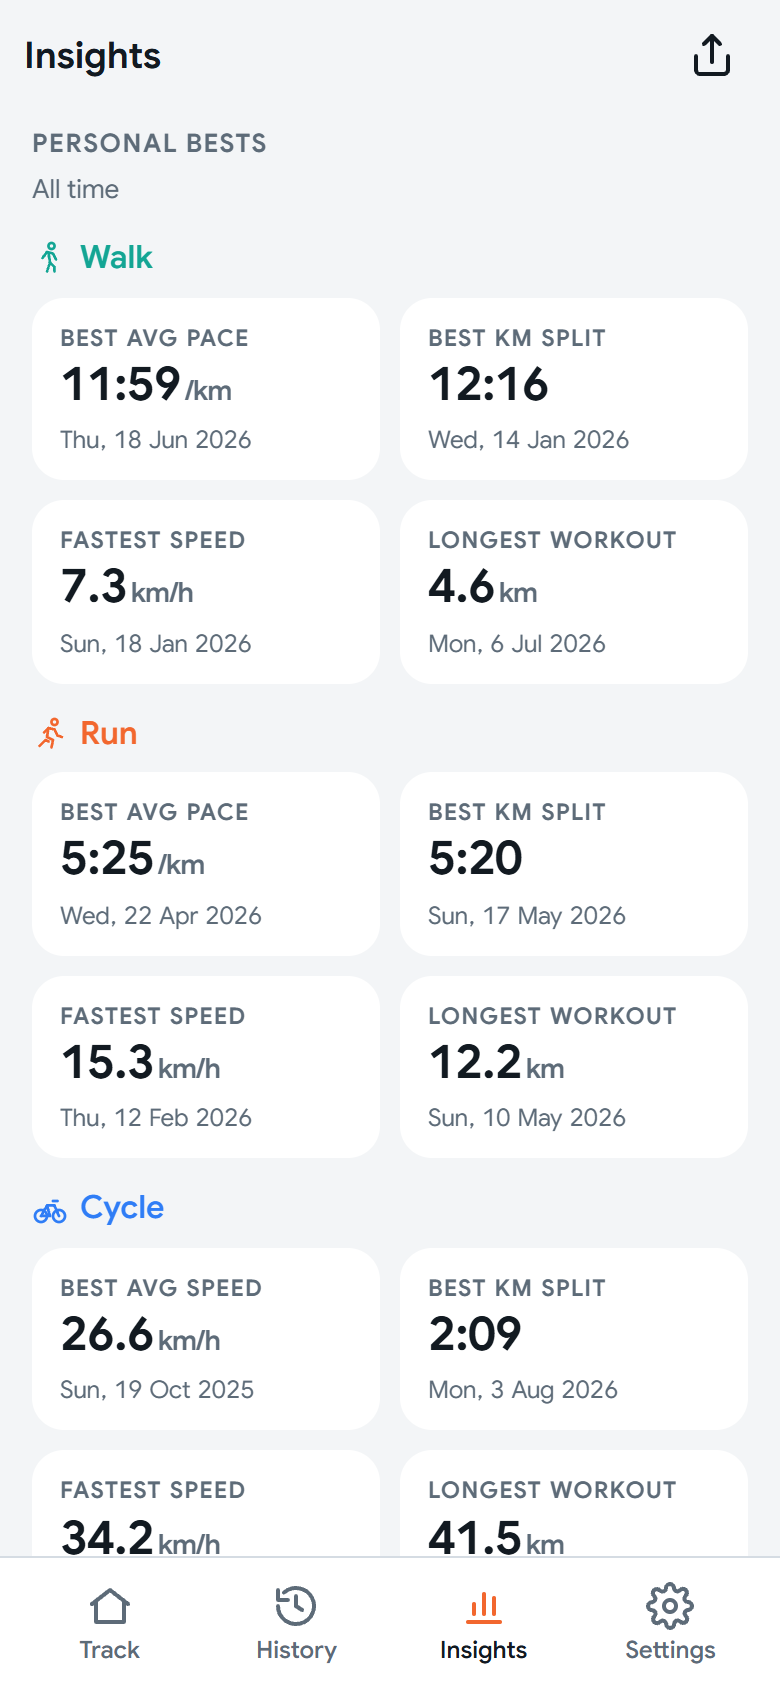
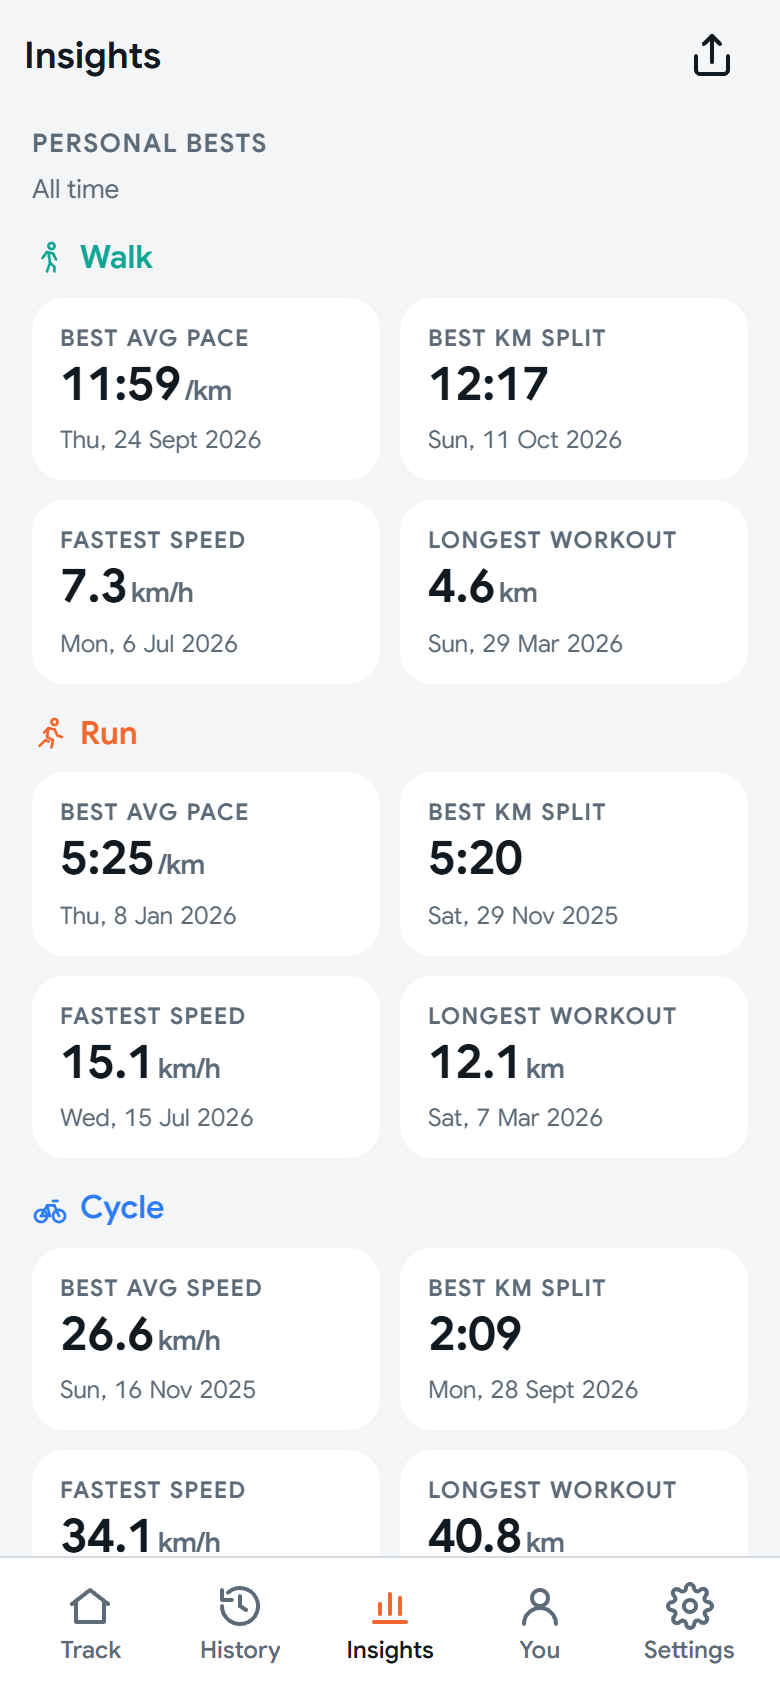
README: screenshots with the You tab and the one-row VO2max chart

diff --git a/README.md b/README.md
@@ -226,9 +226,10 @@ are from a Pixel Watch 3; the workout screen uses the debug build's demo mode.</
     jogging pace (over 8.5 km/h) or unreliable heart rate (gaps, sudden jumps, unsteady,
     too high to be steady walking, or locked onto the step rate) are left out, and the page
     says why. Runs aren't estimated: the walking model overshoots at running pace. You →
-    Profile shows your current estimate (the median of the last 4 weeks) and a chart rating it
-    against Cooper Institute norms for your age and sex, from Very Poor to Excellent, with
-    your percentile and the range of your recent walks.
+    Profile shows your current estimate (the median of the last 4 weeks) on a one-row chart
+    of the Cooper Institute norms for your age and sex, from Very Poor to Excellent: the
+    estimate is a white dot and the range of your recent walks is shaded. Your percentile is
+    above it, and a table of the categories and their ranges below.
 - **Heart-rate line** on the elevation profile, with heart rate per split and in the
   marker popovers. GPX, TCX and CSV exports include heart rate.
 - **Splits** per km or mile, with pace, elevation change and fastest/slowest bars.
